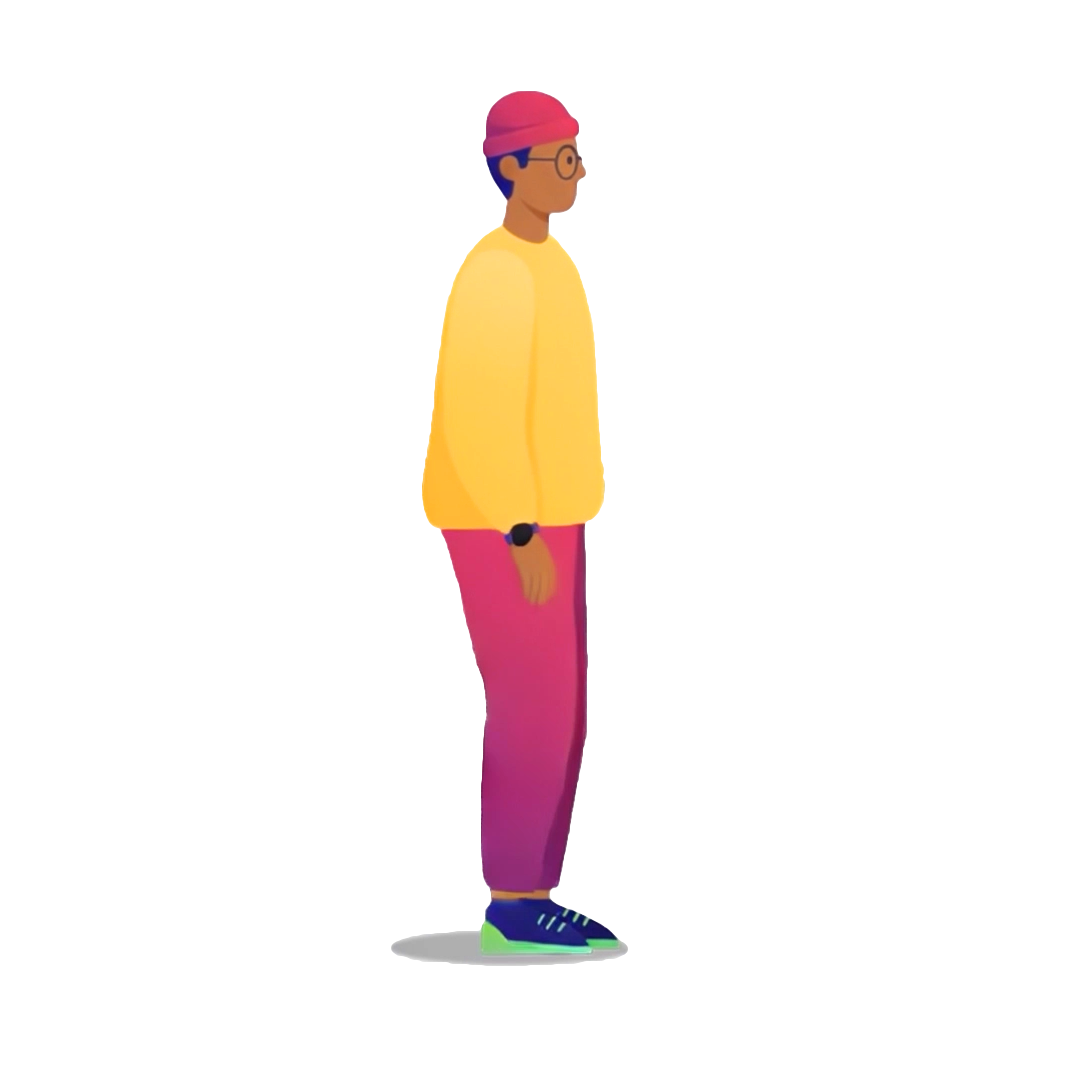
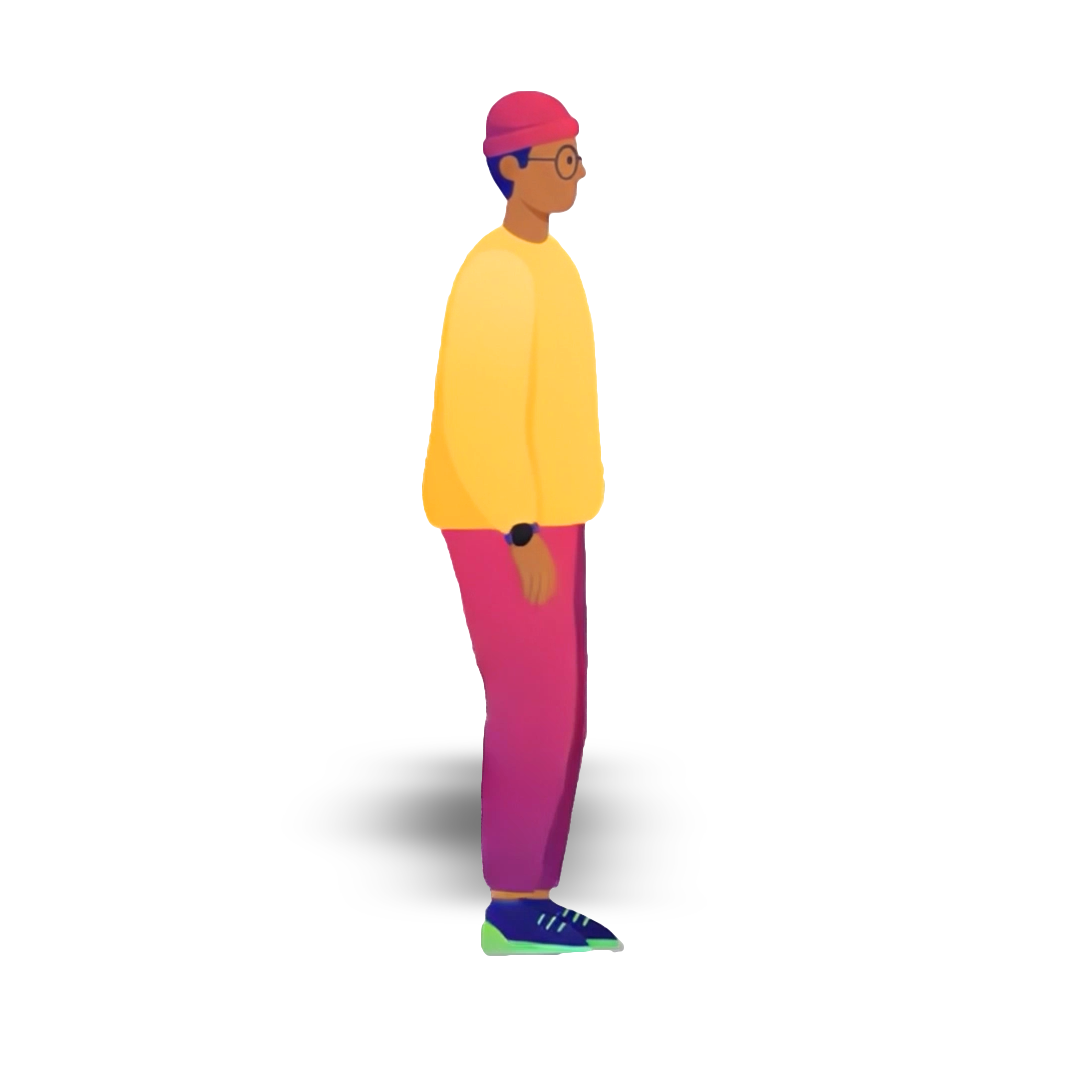
Cross Fade

Changed region(s): [[0.3361, 0.6722, 0.5806, 0.9167]]

diff --git a/phaser/scenes/MainScene.ts b/phaser/scenes/MainScene.ts
@@ -18,6 +18,7 @@ export class MainScene extends Phaser.Scene {
 	private ground!: Phaser.GameObjects.TileSprite;
 	private houses!: Phaser.GameObjects.TileSprite;
 	private housesHeight = 300; // hauteur par défaut pour phase 1
+	private housesScale = 1; // scale par défaut
 	private runner!: Phaser.GameObjects.Sprite;
 	private runnerHitbox!: Phaser.GameObjects.Rectangle;
 	private spaceKey!: Phaser.Input.Keyboard.Key;
@@ -38,7 +39,7 @@ export class MainScene extends Phaser.Scene {
 	private transitionFrameKeys: string[] = [];
 	private walkFrameKeys: string[] = [];
 	private transitionAnimationKey = 'idle_to_run';
-	private walkAnimationKey = 'loop run';
+	private walkAnimationKey = 'marche loop';
 	private isTransitionPlaying = false;
 	private isWalkLoopPlaying = false;
 	private idleTextureKey = 'character_idle';
@@ -60,6 +61,8 @@ export class MainScene extends Phaser.Scene {
 	private isTransitioning = false;
 	private fadeOverlay?: Phaser.GameObjects.Graphics;
 	private phaseThresholds = [0.25, 0.5, 0.75]; // 25%, 50%, 75%
+	private tempHouses?: Phaser.GameObjects.TileSprite;
+	private tempGround?: Phaser.GameObjects.TileSprite;
 
 	// --- Messages de progression ---
 	private tutorialText?: Phaser.GameObjects.Text;
@@ -142,14 +145,14 @@ export class MainScene extends Phaser.Scene {
 				`/assets/animations/Arret+Marche/Arret+Marche_${frameId}.png`
 			);
 		}
-		const walkFrames = 19;
+		const walkFrames = 33;
 		for (let i = 1; i <= walkFrames; i++) {
 			const frameId = i.toString().padStart(5, '0');
 			const key = `walk_${frameId}`;
 			this.walkFrameKeys.push(key);
 			this.load.image(
 				key,
-				`/assets/animations/marche loop/loop run_${frameId}.png`
+				`/assets/animations/marche loop/marche loop_${frameId}.png`
 			);
 		}
 		this.load.image('steps_icon', '/assets/Steps.png');
@@ -186,14 +189,14 @@ export class MainScene extends Phaser.Scene {
 		this.extraDecayRampDuration = this.isMobile ? 1.0 : 1.5;
 		this.extraDecayMaxMultiplier = this.isMobile ? 1.4 : 2.5;
 		this.stepMultiplier = this.isMobile ? 10 : 5;
-		this.runnerScale = this.isMobile ? 0.4 : 0.4;
+		this.runnerScale = this.isMobile ? 0.2 : 0.4;
 		this.speed = 400;
 
 		// ====== BACKGROUND SCROLLABLE ======
 
 		this.bg = this.add.tileSprite(0, 0, width, height, 'bg').setOrigin(0, 0);
 		this.fitBackgroundToHeight(width, height);
-		const groundHeight = 270;
+		const groundHeight = 200;
 		this.houses = this.add
 			.tileSprite(
 				0,
@@ -216,7 +219,7 @@ export class MainScene extends Phaser.Scene {
 
 		// ===== RUNNER =====
 		const runnerX = this.isMobile ? width * 0.18 : width * 0.22;
-		const runnerY = height * 0.9;
+		const runnerY = height * 0.95;
 		this.runner = this.add
 			.sprite(runnerX, runnerY, this.idleTextureKey)
 			.setOrigin(0.5, 1)
@@ -422,6 +425,13 @@ export class MainScene extends Phaser.Scene {
 		if (this.ground) {
 			this.ground.tilePositionX += scroll;
 		}
+		// Déplacer aussi les TileSprites temporaires pendant le cross-fade
+		if (this.tempHouses) {
+			this.tempHouses.tilePositionX += scroll;
+		}
+		if (this.tempGround) {
+			this.tempGround.tilePositionX += scroll;
+		}
 
 		// Mise à jour du compteur de pas en fonction de la distance parcourue
 		if (!this.goalReached) {
@@ -457,12 +467,18 @@ export class MainScene extends Phaser.Scene {
 
 						// Si on vient de dépasser ce seuil et qu'on n'est pas déjà à cette phase
 						if (ratio >= threshold && this.currentPhase < nextPhase) {
+							console.log(
+								`🎯 Déclenchement transition: ratio=${ratio.toFixed(
+									3
+								)}, threshold=${threshold}, currentPhase=${
+									this.currentPhase
+								}, nextPhase=${nextPhase}`
+							);
 							this.transitionToPhase(nextPhase);
 							break;
 						}
 					}
 				}
-
 				if (this.steps >= this.targetSteps) {
 					this.goalReached = true;
 					// feedback visuel : flash vert et message au centre
@@ -627,22 +643,6 @@ export class MainScene extends Phaser.Scene {
 				this.bushes.splice(i, 1);
 			}
 		}
-
-		// ===== 5) DEBUG & JAUGE =====
-
-		// JAUGE désactivée : mise à jour de l'aiguille commentée
-		/*
-        const speedRatio = this.runSpeed > 0
-            ? Phaser.Math.Clamp(this.speed / this.runSpeed, 0, 1)
-            : 0;
-
-        const speedAngleDeg = Phaser.Math.Linear(
-            this.minGaugeAngleDeg,
-            this.maxGaugeAngleDeg,
-            speedRatio
-        );
-        this.gaugeNeedle.setRotation(Phaser.Math.DegToRad(speedAngleDeg));
-        */
 	}
 
 	private createRunnerAnimations() {
@@ -819,64 +819,105 @@ export class MainScene extends Phaser.Scene {
 			return;
 		}
 
-		console.log('✅ fadeOverlay existe, alpha actuel:', this.fadeOverlay.alpha);
+		console.log('✅ Cross-fade démarré');
 
-		// Fondu blanc entrant (fade in)
+		// Déterminer la hauteur selon la phase
+		let newHousesHeight;
+		let newHousesScale = 1;
+		const { width, height } = this.scale;
+		const groundHeight = 200;
+
+		if (phaseNumber === 1 || phaseNumber === 4) {
+			newHousesHeight = 300; // Phase 1 et 4: maison
+		} else if (phaseNumber === 2) {
+			const originalBuldingHeight = 760;
+			const targetHeight = height - groundHeight;
+			newHousesHeight = originalBuldingHeight;
+			newHousesScale = targetHeight / originalBuldingHeight;
+		} else {
+			const originalOfficeHeight = 768;
+			const targetHeight = height - groundHeight;
+			newHousesHeight = originalOfficeHeight;
+			newHousesScale = targetHeight / originalOfficeHeight;
+		}
+
+		const scaledHeight = newHousesHeight * newHousesScale;
+
+		// Créer les nouveaux TileSprites pour la nouvelle phase (en dessous des anciens)
+		this.tempGround = this.add
+			.tileSprite(
+				0,
+				height - groundHeight,
+				width,
+				groundHeight,
+				`ground_phase${phaseNumber}`
+			)
+			.setOrigin(0, 0)
+			.setDepth(0)
+			.setAlpha(0);
+
+		this.tempHouses = this.add
+			.tileSprite(
+				0,
+				height - groundHeight - scaledHeight,
+				width,
+				scaledHeight,
+				`houses_phase${phaseNumber}`
+			)
+			.setOrigin(0, 0)
+			.setDepth(0)
+			.setTileScale(newHousesScale, newHousesScale)
+			.setAlpha(0);
+
+		// Copier la position de scroll des anciens TileSprites
+		if (this.ground) {
+			this.tempGround.tilePositionX = this.ground.tilePositionX;
+		}
+		if (this.houses) {
+			this.tempHouses.tilePositionX = this.houses.tilePositionX;
+		}
+
+		// Cross-fade: ancien fade out, nouveau fade in
+		const crossFadeDuration = 1000;
+
 		this.tweens.add({
-			targets: this.fadeOverlay,
-			alpha: 1,
-			duration: 500,
-			ease: 'Cubic.easeIn',
-			onStart: () => {
-				console.log('▶ Tween fade IN démarré');
-			},
-			onUpdate: (tween) => {
-				if (tween.progress === 0.5) {
-					console.log('⏱ Tween à 50%, alpha:', this.fadeOverlay?.alpha);
-				}
-			},
-			onComplete: () => {
-				console.log('⚪ Écran BLANC, changement de phase');
-				// Changer les textures pendant que l'écran est blanc
-				this.currentPhase = newPhase;
+			targets: [this.ground, this.houses],
+			alpha: 0,
+			duration: crossFadeDuration,
+			ease: 'Sine.easeInOut',
+		});
 
-				// Déterminer la hauteur selon la phase
-				let newHousesHeight;
-				if (phaseNumber === 1 || phaseNumber === 4) {
-					newHousesHeight = 300; // Phase 1 et 4: maison
-				} else if (phaseNumber === 2) {
-					newHousesHeight = 763; // Phase 2: bulding
-				} else {
-					newHousesHeight = 768; // Phase 3: office
-				}
-				this.housesHeight = newHousesHeight;
+		this.tweens.add({
+			targets: [this.tempGround, this.tempHouses],
+			alpha: 1,
+			duration: crossFadeDuration,
+			ease: 'Sine.easeInOut',
+			onComplete: () => {
+				console.log('🏁 Cross-fade TERMINÉE');
+
+				// Remplacer les anciens TileSprites par les nouveaux
 				if (this.ground) {
-					this.ground.setTexture(`ground_phase${phaseNumber}`);
+					this.ground.destroy();
 				}
 				if (this.houses) {
-					const { height } = this.scale;
-					const groundHeight = 270;
-					this.houses.setTexture(`houses_phase${phaseNumber}`);
-					this.houses.setSize(this.houses.width, newHousesHeight);
-					this.houses.setPosition(0, height - groundHeight - newHousesHeight);
-				} // Détruire les anciennes plantes et en créer de nouvelles avec la bonne texture
+					this.houses.destroy();
+				}
+
+				this.ground = this.tempGround!;
+				this.houses = this.tempHouses!;
+				this.tempGround = undefined;
+				this.tempHouses = undefined;
+
+				// Mettre à jour les propriétés
+				this.currentPhase = newPhase;
+				this.housesHeight = newHousesHeight;
+				this.housesScale = newHousesScale;
+
+				// Détruire les anciennes plantes
 				this.bushes.forEach((bush) => bush.destroy());
 				this.bushes = [];
 
-				// Fondu blanc sortant (fade out)
-				this.tweens.add({
-					targets: this.fadeOverlay,
-					alpha: 0,
-					duration: 500,
-					ease: 'Cubic.easeOut',
-					onStart: () => {
-						console.log('▶ Tween fade OUT démarré');
-					},
-					onComplete: () => {
-						console.log('🏁 Transition TERMINÉE');
-						this.isTransitioning = false;
-					},
-				});
+				this.isTransitioning = false;
 			},
 		});
 	}
@@ -970,11 +1011,11 @@ export class MainScene extends Phaser.Scene {
 		const desktopRadius = 100;
 		this.progressCircleCenterX = this.isMobile ? width / 2 : width - 120;
 		this.progressCircleCenterY = this.isMobile ? 150 : 120;
-		this.progressCircleRadius = this.isMobile ? 110 : desktopRadius;
+		this.progressCircleRadius = this.isMobile ? 90 : desktopRadius;
 		this.drawProgressBackground();
 		this.drawProgressArc(this.currentProgressRatio);
 		const topOffset = this.isMobile ? 40 : 40;
-		const goalOffset = this.isMobile ? 30 : 18;
+		const goalOffset = this.isMobile ? 18 : 18;
 		const heartsOffset = this.isMobile ? 35 : 35;
 		this.stepsIcon?.setPosition(
 			this.progressCircleCenterX,
@@ -982,18 +1023,18 @@ export class MainScene extends Phaser.Scene {
 		);
 		this.stepsCountText?.setPosition(
 			this.progressCircleCenterX,
-			this.progressCircleCenterY - (this.isMobile ? 8 : 4)
+			this.progressCircleCenterY - (this.isMobile ? 4 : 4)
 		);
 		this.stepsGoalText?.setPosition(
 			this.progressCircleCenterX,
 			this.progressCircleCenterY + goalOffset
 		);
-		const heartsSpacing = this.isMobile ? 60 : 30;
+		const heartsSpacing = this.isMobile ? 30 : 30;
 		const heartRowY =
 			this.progressCircleCenterY + this.progressCircleRadius - heartsOffset;
 		const totalWidth = heartsSpacing * (this.heartsIcons.length - 1);
 		const startX = this.progressCircleCenterX - totalWidth / 2;
-		const heartSize = this.isMobile ? 60 : 25;
+		const heartSize = this.isMobile ? 25 : 25;
 		this.heartsIcons.forEach((heart, index) => {
 			heart.setDisplaySize(heartSize, heartSize);
 			heart.setPosition(startX + heartsSpacing * index, heartRowY);
@@ -1059,7 +1100,7 @@ export class MainScene extends Phaser.Scene {
 			this.bg.setTilePosition(0, 0);
 			this.fitBackgroundToHeight(width, height);
 		}
-		const groundHeight = 270;
+		const groundHeight = 200;
 		if (this.houses) {
 			this.houses.setSize(width, this.housesHeight);
 			this.houses.setPosition(0, height - groundHeight - this.housesHeight);
@@ -1070,7 +1111,7 @@ export class MainScene extends Phaser.Scene {
 		}
 		if (this.runner) {
 			const runnerX = this.isMobile ? width * 0.18 : width * 0.22;
-			const runnerY = height * 0.9;
+			const runnerY = height * 0.95;
 			this.runner.setPosition(runnerX, runnerY);
 			this.runner.setScale(this.runnerScale);
 			if (this.runnerHitbox) {
